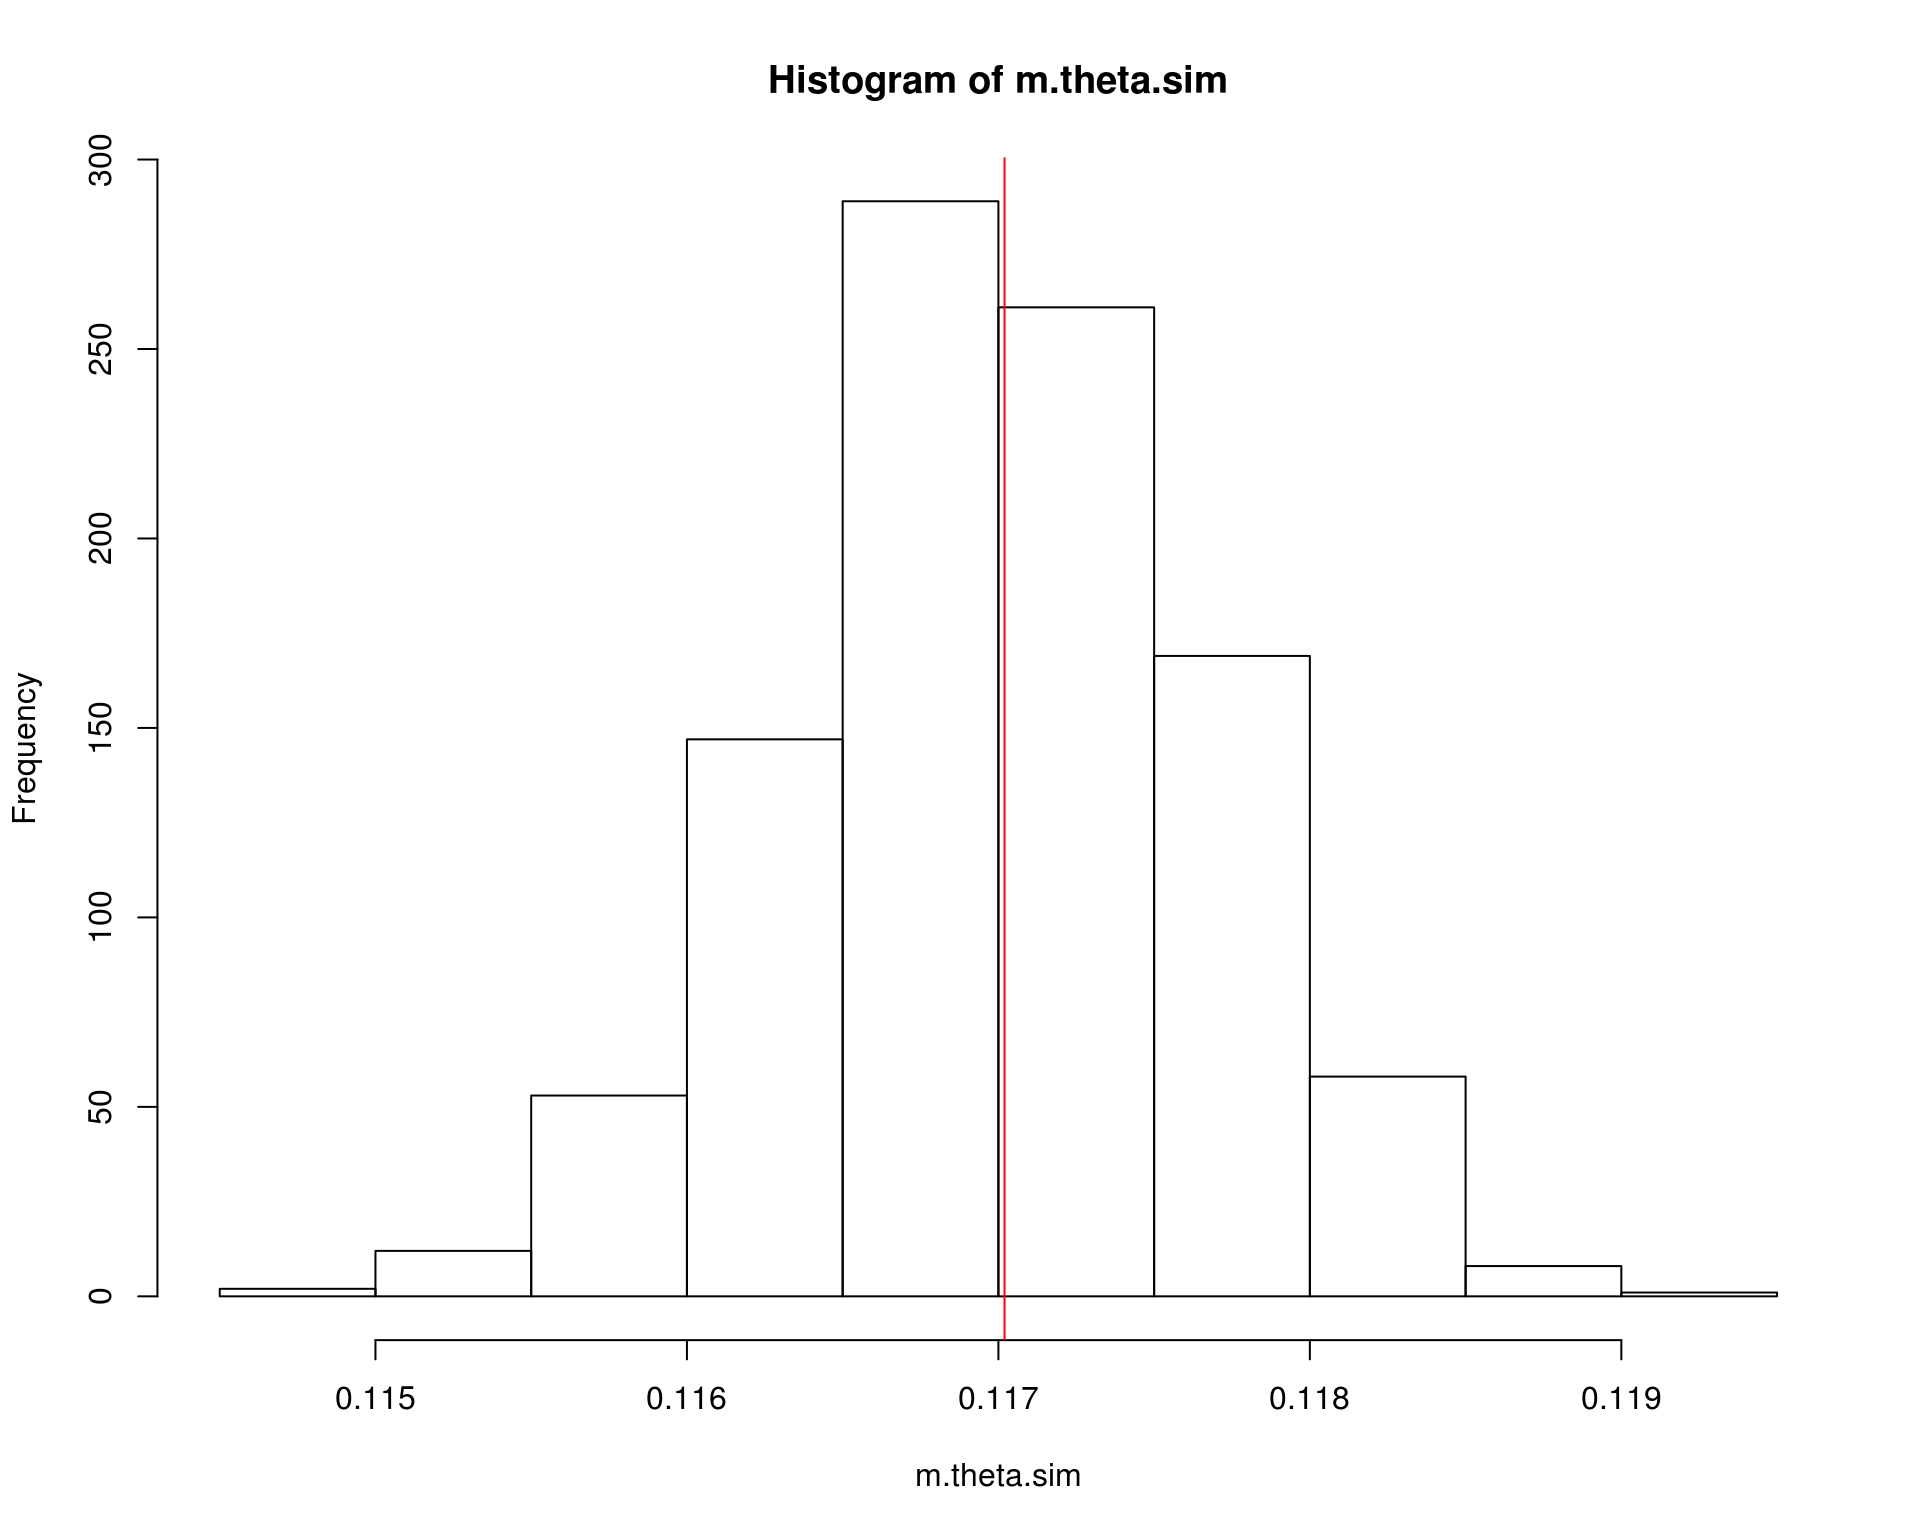
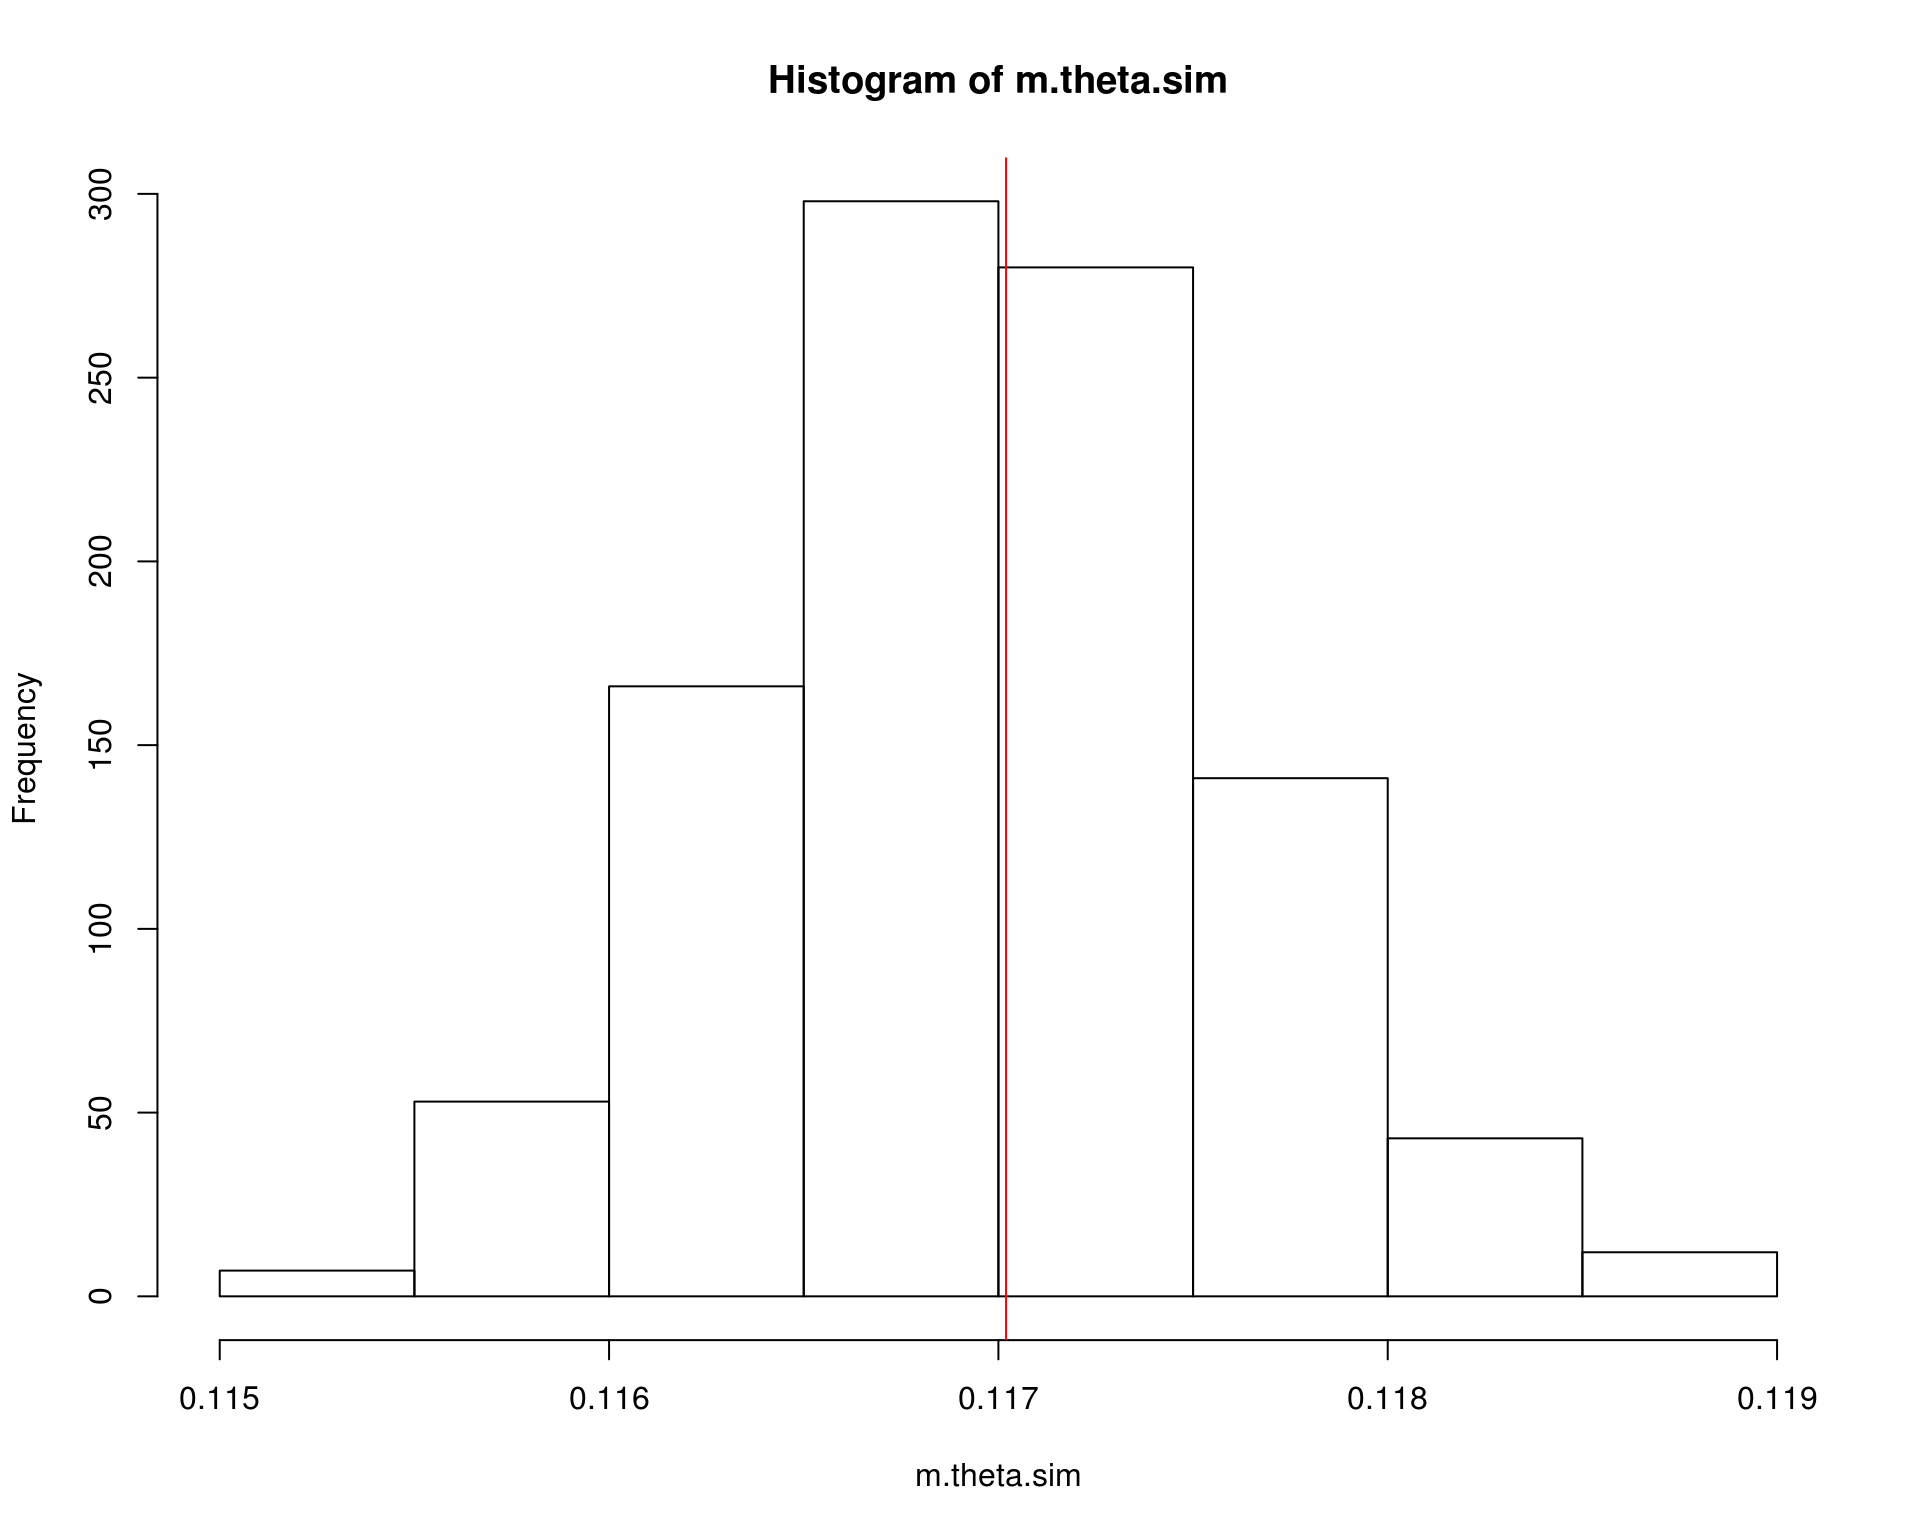
The site is alive.

diff --git a/MC_intro.html b/MC_intro.html
@@ -344,6 +344,12 @@ $(document).ready(function () {
 }
 }
 
+@media print {
+.toc-content {
+  /* see https://github.com/w3c/csswg-drafts/issues/4434 */
+  float: right;
+}
+}
 
 .toc-content {
   padding-left: 30px;
@@ -547,7 +553,7 @@ P(\lim_{n \to \infty} |\bar{X}_n - \mu| &lt; \epsilon) = 1
 <a class="sourceLine" id="cb1-5" title="5">theta.hat &lt;-<span class="st"> </span><span class="kw">exp</span>(<span class="op">-</span>x)</a>
 <a class="sourceLine" id="cb1-6" title="6"><span class="co">## Calcula a média</span></a>
 <a class="sourceLine" id="cb1-7" title="7">(m.theta.hat &lt;-<span class="st"> </span><span class="kw">sum</span>(theta.hat)<span class="op">/</span>m)</a>
-<a class="sourceLine" id="cb1-8" title="8"><span class="co"># [1] 0.6329866</span></a></code></pre></div>
+<a class="sourceLine" id="cb1-8" title="8"><span class="co"># [1] 0.6288847</span></a></code></pre></div>
 <p>Nesse caso, podemos obter a solução analítica e integração numérica no R para comparar as estimativas</p>
 <div class="sourceCode" id="cb2"><pre class="sourceCode r"><code class="sourceCode r"><a class="sourceLine" id="cb2-1" title="1"><span class="co">## Solução analítica</span></a>
 <a class="sourceLine" id="cb2-2" title="2">(theta &lt;-<span class="st"> </span><span class="dv">1</span> <span class="op">-</span><span class="st"> </span><span class="kw">exp</span>(<span class="op">-</span><span class="dv">1</span>))</a>
@@ -587,7 +593,7 @@ P(\lim_{n \to \infty} |\bar{X}_n - \mu| &lt; \epsilon) = 1
 <a class="sourceLine" id="cb3-6" title="6">theta.hat &lt;-<span class="st"> </span><span class="kw">exp</span>(<span class="op">-</span>x)</a>
 <a class="sourceLine" id="cb3-7" title="7"><span class="co">## Calcula a média * (b - a)</span></a>
 <a class="sourceLine" id="cb3-8" title="8">(m.theta.hat &lt;-<span class="st"> </span>(<span class="kw">sum</span>(theta.hat)<span class="op">/</span>m) <span class="op">*</span><span class="st"> </span>(b <span class="op">-</span><span class="st"> </span>a))</a>
-<a class="sourceLine" id="cb3-9" title="9"><span class="co"># [1] 0.116846</span></a></code></pre></div>
+<a class="sourceLine" id="cb3-9" title="9"><span class="co"># [1] 0.1162919</span></a></code></pre></div>
 <p>Nesse caso, podemos obter a solução analítica e integração numérica no R para comparar as estimativas</p>
 <div class="sourceCode" id="cb4"><pre class="sourceCode r"><code class="sourceCode r"><a class="sourceLine" id="cb4-1" title="1"><span class="co">## Solução analítica</span></a>
 <a class="sourceLine" id="cb4-2" title="2">(theta &lt;-<span class="st"> </span><span class="kw">exp</span>(<span class="op">-</span><span class="dv">2</span>) <span class="op">-</span><span class="st"> </span><span class="kw">exp</span>(<span class="op">-</span><span class="dv">4</span>))</a>
@@ -608,7 +614,7 @@ P[X&gt;2] = \int_2^{\infty} e^{-x} dx
 <a class="sourceLine" id="cb5-5" title="5">theta.hat2 &lt;-<span class="st"> </span><span class="kw">exp</span>(<span class="op">-</span>x2)</a>
 <a class="sourceLine" id="cb5-6" title="6"><span class="co">## Calcula a média * (b - a)</span></a>
 <a class="sourceLine" id="cb5-7" title="7">(m.theta.hat2 &lt;-<span class="st"> </span>(<span class="kw">sum</span>(theta.hat2)<span class="op">/</span>m) <span class="op">*</span><span class="st"> </span>(<span class="fl">1e5</span> <span class="op">-</span><span class="st"> </span><span class="dv">2</span>))</a>
-<a class="sourceLine" id="cb5-8" title="8"><span class="co"># [1] 1.618277e-09</span></a>
+<a class="sourceLine" id="cb5-8" title="8"><span class="co"># [1] 1.299043</span></a>
 <a class="sourceLine" id="cb5-9" title="9"><span class="co">## Solução analítica</span></a>
 <a class="sourceLine" id="cb5-10" title="10">(theta2 &lt;-<span class="st"> </span><span class="kw">exp</span>(<span class="op">-</span><span class="dv">2</span>) <span class="op">-</span><span class="st"> </span><span class="kw">exp</span>(<span class="op">-</span><span class="fl">1e5</span>))</a>
 <a class="sourceLine" id="cb5-11" title="11"><span class="co"># [1] 0.1353353</span></a>
@@ -629,17 +635,17 @@ P[X&gt;2] = \int_2^{\infty} e^{-x} dx
 \]</span></p>
 <p>Seguindo o exemplo anterior, vimos que a estimativa da integral é</p>
 <div class="sourceCode" id="cb6"><pre class="sourceCode r"><code class="sourceCode r"><a class="sourceLine" id="cb6-1" title="1">m.theta.hat</a>
-<a class="sourceLine" id="cb6-2" title="2"><span class="co"># [1] 0.116846</span></a></code></pre></div>
+<a class="sourceLine" id="cb6-2" title="2"><span class="co"># [1] 0.1162919</span></a></code></pre></div>
 <p>Mas veja que existe uma distribuição de valores para compor esta estimativa média</p>
 <div class="sourceCode" id="cb7"><pre class="sourceCode r"><code class="sourceCode r"><a class="sourceLine" id="cb7-1" title="1"><span class="kw">hist</span>(theta.hat); <span class="kw">abline</span>(<span class="dt">v =</span> theta, <span class="dt">col =</span> <span class="dv">2</span>)</a></code></pre></div>
 <p><img src="figures/MC_intro/unnamed-chunk-9-1.png" width="80%" style="display: block; margin: auto;" /></p>
 <p>A variância relacionada ao estimador pode então ser calculada como</p>
 <div class="sourceCode" id="cb8"><pre class="sourceCode r"><code class="sourceCode r"><a class="sourceLine" id="cb8-1" title="1"><span class="co">## Variancia</span></a>
 <a class="sourceLine" id="cb8-2" title="2">(v.theta.hat &lt;-<span class="st"> </span><span class="kw">sum</span>((theta.hat <span class="op">-</span><span class="st"> </span>m.theta.hat)<span class="op">^</span><span class="dv">2</span>)<span class="op">/</span>m<span class="op">^</span><span class="dv">2</span>)</a>
-<a class="sourceLine" id="cb8-3" title="3"><span class="co"># [1] 4.499984e-07</span></a>
+<a class="sourceLine" id="cb8-3" title="3"><span class="co"># [1] 4.430946e-07</span></a>
 <a class="sourceLine" id="cb8-4" title="4"><span class="co">## Erro padrão</span></a>
 <a class="sourceLine" id="cb8-5" title="5">(se.theta.hat &lt;-<span class="st"> </span><span class="kw">sqrt</span>(v.theta.hat))</a>
-<a class="sourceLine" id="cb8-6" title="6"><span class="co"># [1] 0.0006708192</span></a></code></pre></div>
+<a class="sourceLine" id="cb8-6" title="6"><span class="co"># [1] 0.0006656535</span></a></code></pre></div>
 <p>Pelo Teorema do Limite Central, temos que</p>
 <p><span class="math display">\[
 \frac{\hat\theta - \text{E}(\hat\theta)}{\sqrt{\hat{V}(\hat\theta)}}
@@ -653,10 +659,10 @@ P[X&gt;2] = \int_2^{\infty} e^{-x} dx
 <p>Com esse resultado, podemos inclusive fornecer um intervalo de confiança associado à nossa estimativa</p>
 <div class="sourceCode" id="cb10"><pre class="sourceCode r"><code class="sourceCode r"><a class="sourceLine" id="cb10-1" title="1"><span class="co">## Media e veriancia</span></a>
 <a class="sourceLine" id="cb10-2" title="2"><span class="kw">c</span>(m.theta.hat, v.theta.hat)</a>
-<a class="sourceLine" id="cb10-3" title="3"><span class="co"># [1] 1.168460e-01 4.499984e-07</span></a>
+<a class="sourceLine" id="cb10-3" title="3"><span class="co"># [1] 1.162919e-01 4.430946e-07</span></a>
 <a class="sourceLine" id="cb10-4" title="4"><span class="co">## Intervalo de confiança (95%)</span></a>
 <a class="sourceLine" id="cb10-5" title="5"><span class="kw">c</span>(m.theta.hat <span class="op">-</span><span class="st"> </span><span class="fl">1.96</span> <span class="op">*</span><span class="st"> </span>se.theta.hat, m.theta.hat <span class="op">+</span><span class="st"> </span><span class="fl">1.96</span> <span class="op">*</span><span class="st"> </span>se.theta.hat)</a>
-<a class="sourceLine" id="cb10-6" title="6"><span class="co"># [1] 0.1155312 0.1181608</span></a></code></pre></div>
+<a class="sourceLine" id="cb10-6" title="6"><span class="co"># [1] 0.1149872 0.1175965</span></a></code></pre></div>
 <p>Veja que assintoticamente, i.e., conforme aumentamos o tamanho da amostra, o valor da integral se aproxima cada vez mais do valor verdadeiro (que nesse caso sabemos calcular analiticamente, apenas para comparação).</p>
 <div class="sourceCode" id="cb11"><pre class="sourceCode r"><code class="sourceCode r"><a class="sourceLine" id="cb11-1" title="1"><span class="co">## Simula a convergência para o verdadeiro valor conforme aumenta o</span></a>
 <a class="sourceLine" id="cb11-2" title="2"><span class="co">## tamanho da amostra</span></a>

diff --git a/notas.html b/notas.html
@@ -309,6 +309,7 @@ $(document).ready(function () {
 <th align="left">Matrícula</th>
 <th align="right">A1</th>
 <th align="right">A2</th>
+<th align="right">P1</th>
 </tr>
 </thead>
 <tbody>
@@ -316,9 +317,11 @@ $(document).ready(function () {
 <td align="left">GRR20137526</td>
 <td align="right">NA</td>
 <td align="right">NA</td>
+<td align="right">NA</td>
 </tr>
 <tr class="even">
 <td align="left">GRR20137583</td>
+<td align="right">NA</td>
 <td align="right">NA</td>
 <td align="right">NA</td>
 </tr>
@@ -326,24 +329,29 @@ $(document).ready(function () {
 <td align="left">GRR20149092</td>
 <td align="right">12</td>
 <td align="right">NA</td>
+<td align="right">NA</td>
 </tr>
 <tr class="even">
 <td align="left">GRR20149112</td>
 <td align="right">25</td>
+<td align="right">NA</td>
 <td align="right">NA</td>
 </tr>
 <tr class="odd">
 <td align="left">GRR20149163</td>
 <td align="right">10</td>
 <td align="right">10</td>
+<td align="right">12</td>
 </tr>
 <tr class="even">
 <td align="left">GRR20159111</td>
 <td align="right">5</td>
 <td align="right">NA</td>
+<td align="right">NA</td>
 </tr>
 <tr class="odd">
 <td align="left">GRR20159136</td>
+<td align="right">NA</td>
 <td align="right">NA</td>
 <td align="right">NA</td>
 </tr>
@@ -351,14 +359,17 @@ $(document).ready(function () {
 <td align="left">GRR20159211</td>
 <td align="right">50</td>
 <td align="right">90</td>
+<td align="right">57</td>
 </tr>
 <tr class="odd">
 <td align="left">GRR20159231</td>
 <td align="right">25</td>
 <td align="right">30</td>
+<td align="right">17</td>
 </tr>
 <tr class="even">
 <td align="left">GRR20159695</td>
+<td align="right">NA</td>
 <td align="right">NA</td>
 <td align="right">NA</td>
 </tr>
@@ -366,29 +377,35 @@ $(document).ready(function () {
 <td align="left">GRR20160204</td>
 <td align="right">5</td>
 <td align="right">NA</td>
+<td align="right">NA</td>
 </tr>
 <tr class="even">
 <td align="left">GRR20160206</td>
 <td align="right">96</td>
 <td align="right">70</td>
+<td align="right">36</td>
 </tr>
 <tr class="odd">
 <td align="left">GRR20160215</td>
 <td align="right">83</td>
 <td align="right">20</td>
+<td align="right">22</td>
 </tr>
 <tr class="even">
 <td align="left">GRR20160217</td>
 <td align="right">50</td>
 <td align="right">69</td>
+<td align="right">43</td>
 </tr>
 <tr class="odd">
 <td align="left">GRR20160219</td>
 <td align="right">100</td>
 <td align="right">67</td>
+<td align="right">76</td>
 </tr>
 <tr class="even">
 <td align="left">GRR20160221</td>
+<td align="right">NA</td>
 <td align="right">NA</td>
 <td align="right">NA</td>
 </tr>
@@ -396,14 +413,17 @@ $(document).ready(function () {
 <td align="left">GRR20160230</td>
 <td align="right">95</td>
 <td align="right">25</td>
+<td align="right">58</td>
 </tr>
 <tr class="even">
 <td align="left">GRR20160239</td>
 <td align="right">45</td>
 <td align="right">52</td>
+<td align="right">19</td>
 </tr>
 <tr class="odd">
 <td align="left">GRR20160304</td>
+<td align="right">NA</td>
 <td align="right">NA</td>
 <td align="right">NA</td>
 </tr>
@@ -411,24 +431,29 @@ $(document).ready(function () {
 <td align="left">GRR20164019</td>
 <td align="right">48</td>
 <td align="right">NA</td>
+<td align="right">NA</td>
 </tr>
 <tr class="odd">
 <td align="left">GRR20165742</td>
 <td align="right">10</td>
+<td align="right">NA</td>
 <td align="right">NA</td>
 </tr>
 <tr class="even">
 <td align="left">GRR20176432</td>
 <td align="right">17</td>
 <td align="right">NA</td>
+<td align="right">NA</td>
 </tr>
 <tr class="odd">
 <td align="left">GRR20185596</td>
 <td align="right">NA</td>
 <td align="right">NA</td>
+<td align="right">NA</td>
 </tr>
 <tr class="even">
 <td align="left">ISO20130219</td>
+<td align="right">NA</td>
 <td align="right">NA</td>
 <td align="right">NA</td>
 </tr>

diff --git a/MCMC-1.html b/MCMC-1.html
@@ -344,6 +344,12 @@ $(document).ready(function () {
 }
 }
 
+@media print {
+.toc-content {
+  /* see https://github.com/w3c/csswg-drafts/issues/4434 */
+  float: right;
+}
+}
 
 .toc-content {
   padding-left: 30px;
